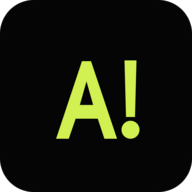
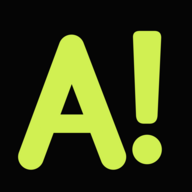
Use new A-Mark with original wordmark styling

diff --git a/styles.css b/styles.css
@@ -119,8 +119,8 @@ button, input { font: inherit; }
 .masthead { height: 6.25rem; display:flex; align-items:center; justify-content:space-between; padding:1.25rem var(--gutter); }
 .brand { opacity:0; transform:translateY(-.65rem); transition:opacity .55s .12s var(--ease),transform .7s .12s var(--ease); }
 .is-ready .brand { opacity:1; transform:none; }
-.brand { display:inline-flex; align-items:center; min-height:3rem; text-decoration:none; }
-.brand img { display:block; width:10rem; height:auto; filter:drop-shadow(0 0 .6rem rgba(209,240,82,.14)); }
+.brand { display:inline-flex; align-items:center; gap:.95rem; min-height:3rem; text-decoration:none; font-size:.82rem; font-weight:650; letter-spacing:.28em; }
+.brand img { width:2.15rem; height:2.15rem; filter:drop-shadow(0 0 .6rem rgba(209,240,82,.18)); }
 .contact-links { position:absolute; left:var(--gutter); bottom:1.35rem; z-index:8; display:flex; align-items:center; gap:.4rem; opacity:0; transform:translateY(.65rem); transition:opacity .55s .8s var(--ease),transform .7s .8s var(--ease); }
 .is-ready .contact-links { opacity:1; transform:none; }
 .contact-links a { position:relative; width:2.75rem; height:2.75rem; display:grid; place-items:center; color:var(--signal); text-decoration:none; touch-action:manipulation; transition:color 180ms,transform 220ms var(--ease); }
@@ -261,7 +261,8 @@ button[aria-busy="true"] .submit-mark { animation:button-wait .8s linear infinit
   :root { --gutter:clamp(2rem,4.5vw,3.5rem); }
   .atmosphere { --signal-x:55%; --signal-y:47%; --signal-height:174%; transform:none; }
   .masthead { height:5.5rem; }
-  .brand img { width:9.4rem; }
+  .brand { font-size:.73rem; letter-spacing:.24em; }
+  .brand img { width:1.9rem; height:1.9rem; }
   .hero { min-height:calc(100dvh - 5.5rem); }
   h1 { left:var(--gutter); top:42%; font-size:clamp(4.25rem,7.25vw,5.4rem); line-height:.73; }
   .line-two { margin-left:clamp(.75rem,2vw,1.5rem); }
@@ -277,7 +278,8 @@ button[aria-busy="true"] .submit-mark { animation:button-wait .8s linear infinit
   :root { --gutter:clamp(2rem,5vw,2.75rem); }
   .atmosphere { --signal-x:55%; --signal-y:45%; --signal-height:165%; transform:none; }
   .masthead { height:5.25rem; padding-block:1rem; }
-  .brand img { width:9.4rem; }
+  .brand { font-size:.73rem; letter-spacing:.24em; }
+  .brand img { width:1.9rem; height:1.9rem; }
   .hero { min-height:calc(100dvh - 5.25rem); }
   h1 { left:var(--gutter); top:21%; transform:none; font-size:clamp(4rem,8.7vw,4.6rem); line-height:.73; }
   .line-two { margin-left:clamp(1rem,3vw,1.8rem); }
@@ -297,8 +299,8 @@ button[aria-busy="true"] .submit-mark { animation:button-wait .8s linear infinit
   body { position:relative; min-height:max(46rem,100dvh); }
   .atmosphere { --signal-x:55%; --signal-y:43%; --signal-angle:-12deg; --signal-height:147%; transform:none; }
   .masthead { height:4.75rem; padding:1rem var(--gutter); }
-  .brand { min-height:2.75rem; }
-  .brand img { width:8.65rem; }
+  .brand { gap:.72rem; min-height:2.75rem; font-size:.68rem; letter-spacing:.23em; }
+  .brand img { width:1.72rem; height:1.72rem; }
   .hero { min-height:max(41.25rem,calc(100dvh - 4.75rem)); }
   h1 { left:var(--gutter); top:clamp(5rem,11.5vh,6.75rem); transform:none; font-size:clamp(3rem,14.2vw,3.8rem); line-height:.735; letter-spacing:-.072em; }
   .line-two { margin-left:0; }

diff --git a/index.html b/index.html
@@ -7,7 +7,7 @@
     <meta name="description" content="Agmentic — imagine, experiment and build what comes next with AI." />
     <title>Agmentic — Imagine what becomes possible</title>
     <link rel="icon" href="assets/favicon.ico" sizes="any" />
-    <link rel="icon" href="assets/agmentic-exact-icon-green.svg" type="image/svg+xml" />
+    <link rel="icon" href="assets/agmentic-a-mark-lime.svg" type="image/svg+xml" />
     <link rel="apple-touch-icon" href="assets/apple-touch-icon.png" />
     <link rel="preconnect" href="https://fonts.googleapis.com" />
     <link rel="preconnect" href="https://fonts.gstatic.com" crossorigin />
@@ -30,7 +30,8 @@
 
     <header class="masthead">
       <a class="brand" href="/" aria-label="Agmentic home">
-        <img src="assets/agmentic-exact-horizontal-dark.svg" alt="Agmentic" width="1150" height="400" />
+        <img src="assets/agmentic-a-mark-lime.svg" alt="" width="512" height="512" />
+        <span>AGMENTIC</span>
       </a>
     </header>
 
